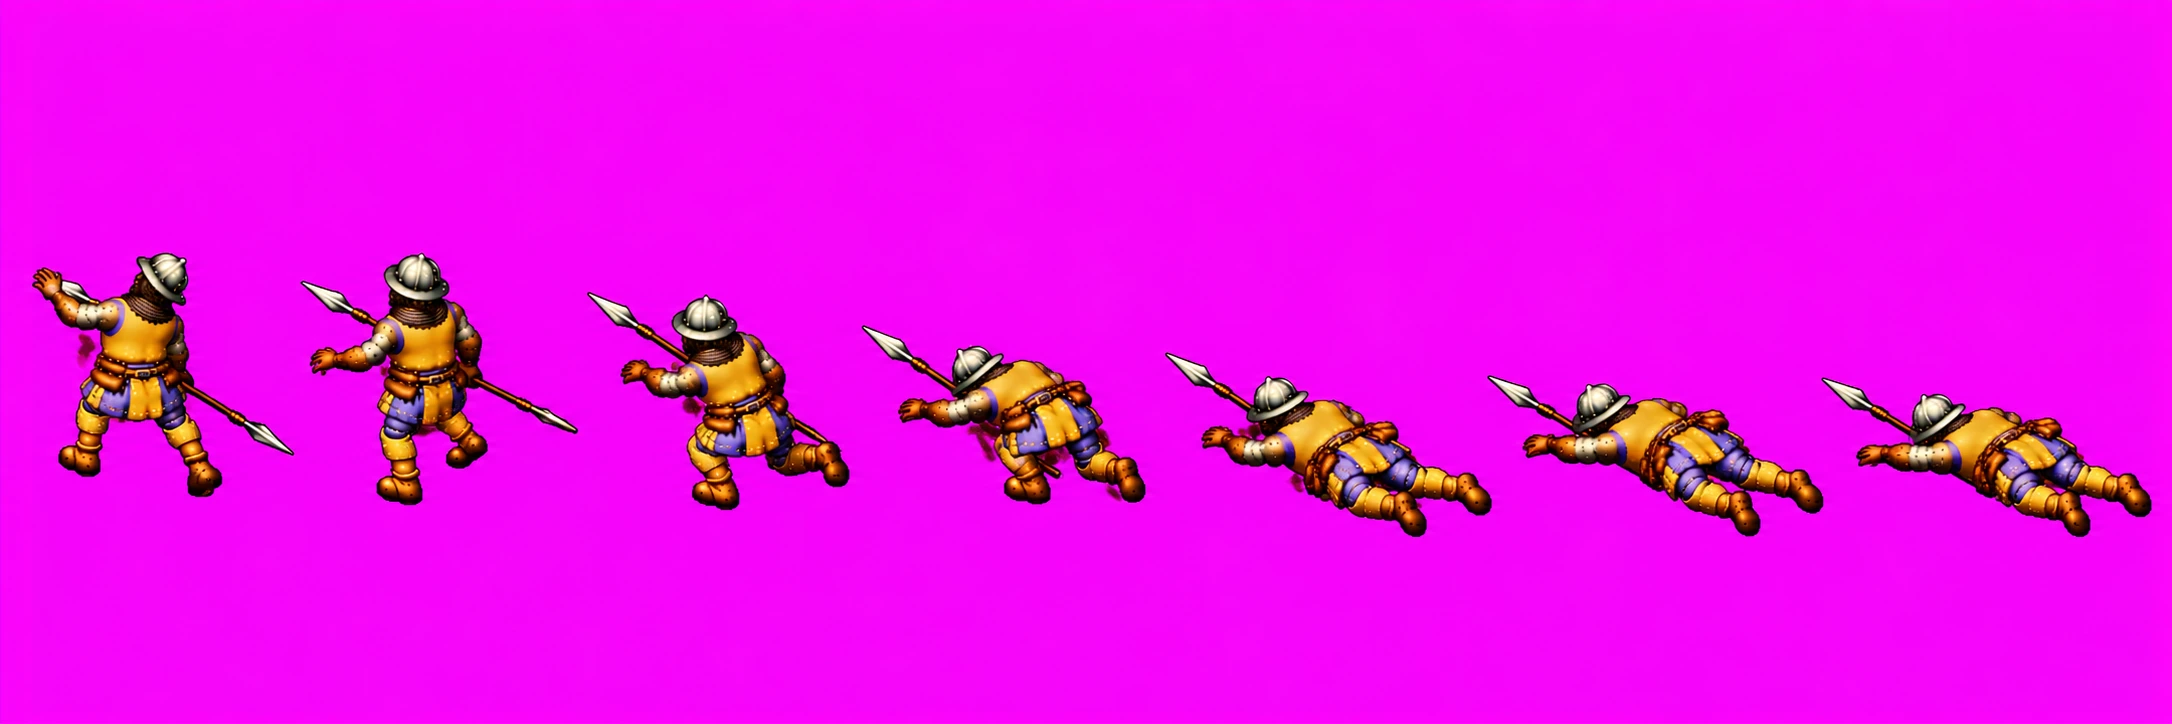
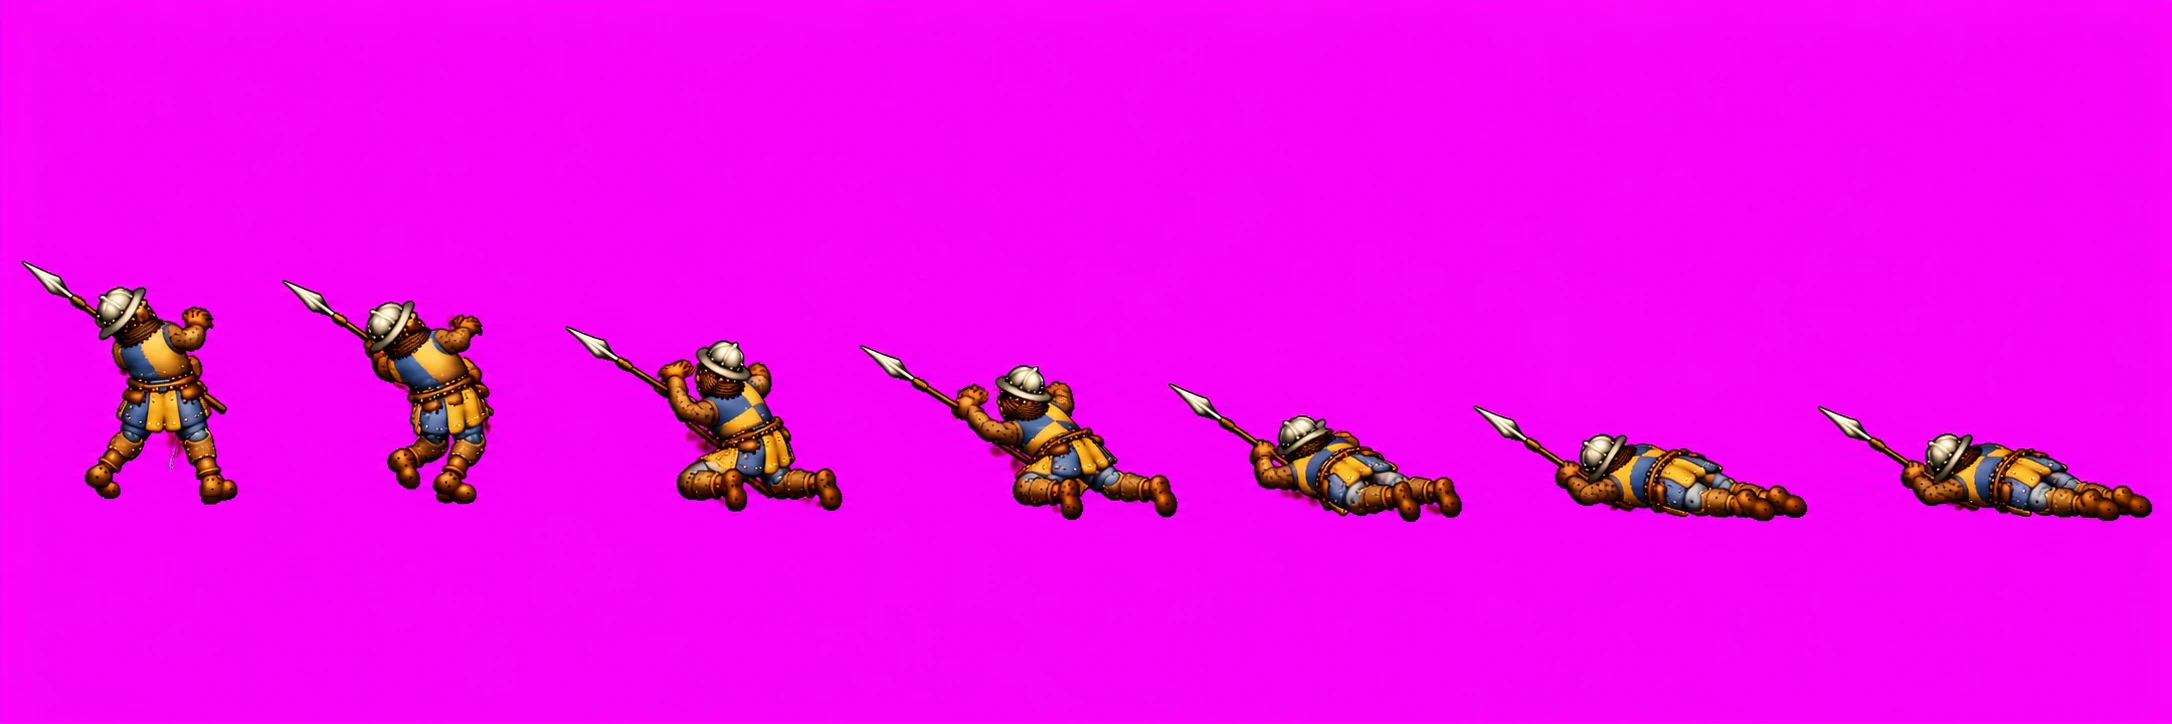
Vallen NW van de speerman: de speer vooruit, één punt, en mat
Na de redo houdt hij de speer in elk beeld zoals bij lopen NW, met één punt, in de stijl van het staande vel. Daarmee
zijn alle 25 vellen van de speerman af. De rest blijft pixel voor pixel hetzelfde.

Changed region(s): [[0.0, 0.3343, 1.0, 0.7597]]

diff --git a/beelden/beschrijving.js b/beelden/beschrijving.js
@@ -613,11 +613,11 @@
        "fps": 8,
        "herhaal": false,
        "cel": [
-        132,
+        136,
         107
        ],
        "anker": [
-        64,
+        68,
         84
        ]
       }

diff --git a/ontwerp/beelden-van-de-generator.md b/ontwerp/beelden-van-de-generator.md
@@ -342,8 +342,11 @@ generator van 1,7 MB; op spelmaat is het verschil ruis) en lopen in het spel. Wa
 - **Vel 19, vallen ZW** (22 okt): meteen goed, voorover naar linksonder, de speer naast hem. Vervangt het oude vel van ZW.
 - **Vel 20, vallen W** (22 okt): meteen goed: door de klap achterover, dan voorover naar links. De punten raken de laars
   van het beeld ervoor, dus de beelden staan niet los; de gelijke vakken met de dunne stukken knippen het goed.
-- **Vel 21, vallen NW** (22 okt), voorlopig: goed gevallen, maar in beeld 1 wijst de punt naar rechtsonder (bij lopen
-  en aanvallen NW naar linksboven), in beeld 2 heeft de speer aan beide kanten een punt, en er zitten rode vlekjes op.
+- **Vel 21, vallen NW** (22 okt): eerst wees de punt in beeld 1 naar rechtsonder en had de speer in beeld 2 twee
+  punten. Goed (en meteen mat, met een blauw-gele wapenrok) met: "redo 21: Dying NW again. Keep the fall of your last
+  version of sheet 21 [...], but in every frame he holds the same single spear the way he did when walking NW: the
+  spearhead pointing up and to the left, never down to the right. The spear has only one spearhead, at the front. No
+  blood. Matte colours exactly like the attached reference sheets [...]"
 - **Vel 22, vallen N** (22 okt): goed (van achteren, voorover van ons af), met weer een punt achteraan de speer in beeld
   1 en 2, en rode vlekjes. De generator gaf hem een kleine helm (55 pixels tegen 99 bij lopen N), zodat hij naar de helm
   20% te groot werd; een aanval of val neemt nu de kleinste van de twee maten (hoogte en helm), zodat hij nooit hoger
@@ -355,8 +358,7 @@ generator van 1,7 MB; op spelmaat is het verschil ruis) en lopen in het spel. Wa
   He faces south-east, down and to the right, TOWARDS the viewer, exactly like the walking SE sheet (sheet 9) and the
   attacking SE sheet (sheet 17): in frames 1 to 4 we see his face, his beard and the front of his tabard; we do NOT see
   his back. [...] One spear with one spearhead, which keeps pointing down and to the right. No blood. [...]"
-- **Alle 25 vellen zijn er** (22 okt). Voorlopig, met een redo die beter kan: 21 (vallen NW: de punt in beeld 1 naar
-  achteren, twee punten in beeld 2); en eventueel 3 en 4 (lopen ZW en W:
+- **Alle 25 vellen zijn er** (22 okt). Wat nog beter kan: eventueel 3 en 4 (lopen ZW en W:
   de punt naar achteren). De vallen vanaf 18 zijn glimmender en oranjer getekend (de wapenrok bijna zonder blauw);
   `kleurGelijk` trekt de kleur bij, de vorm niet. Bij N (vel 14), van achteren, speelt hetzelfde: dan de punt
   omhoog, van de kijker af.

diff --git a/ontwerp/werklijst.md b/ontwerp/werklijst.md
@@ -32,7 +32,7 @@ de pijplijn van vraag 180 (Q, f; niet in de cloud). **Bezig in sessie `lokaal-da
 **nieuwe weg** (Marcel, 21 okt: "Ok, dan zullen we moeten inventariseren welke gebouwen en poppetjes we nodig hebben. Dan
 kunnen we de andere generator deze 1 voor 1 laten maken. Jij moet dan zorgen dat ze passend worden in het spel"): de
 generator van zijn plaat maakt de bron, wij maken het passend; eerst de inventaris (`beelden-van-de-generator.md`). De
-speerman staat en loopt in het spel in acht richtingen (21 okt, de masterprompt); de aanval in alle acht richtingen en alle 25 vellen staan erin (22 okt); eventueel nog een redo van 21 (en 3 en 4), `beelden-van-de-generator.md` (in
+speerman staat en loopt in het spel in acht richtingen (21 okt, de masterprompt); de aanval in alle acht richtingen en alle 25 vellen staan erin (22 okt), af, `beelden-van-de-generator.md` (in
 het nieuwe gesprek, `beelden-van-de-generator.md`), en eventueel 3 en 4 opnieuw (de punt naar achteren).
 
 **Marcels acht punten van 20 okt** (R, vraag 182 tot 189: egaliseren met de schop, de maat van de huizen, dragers, een
